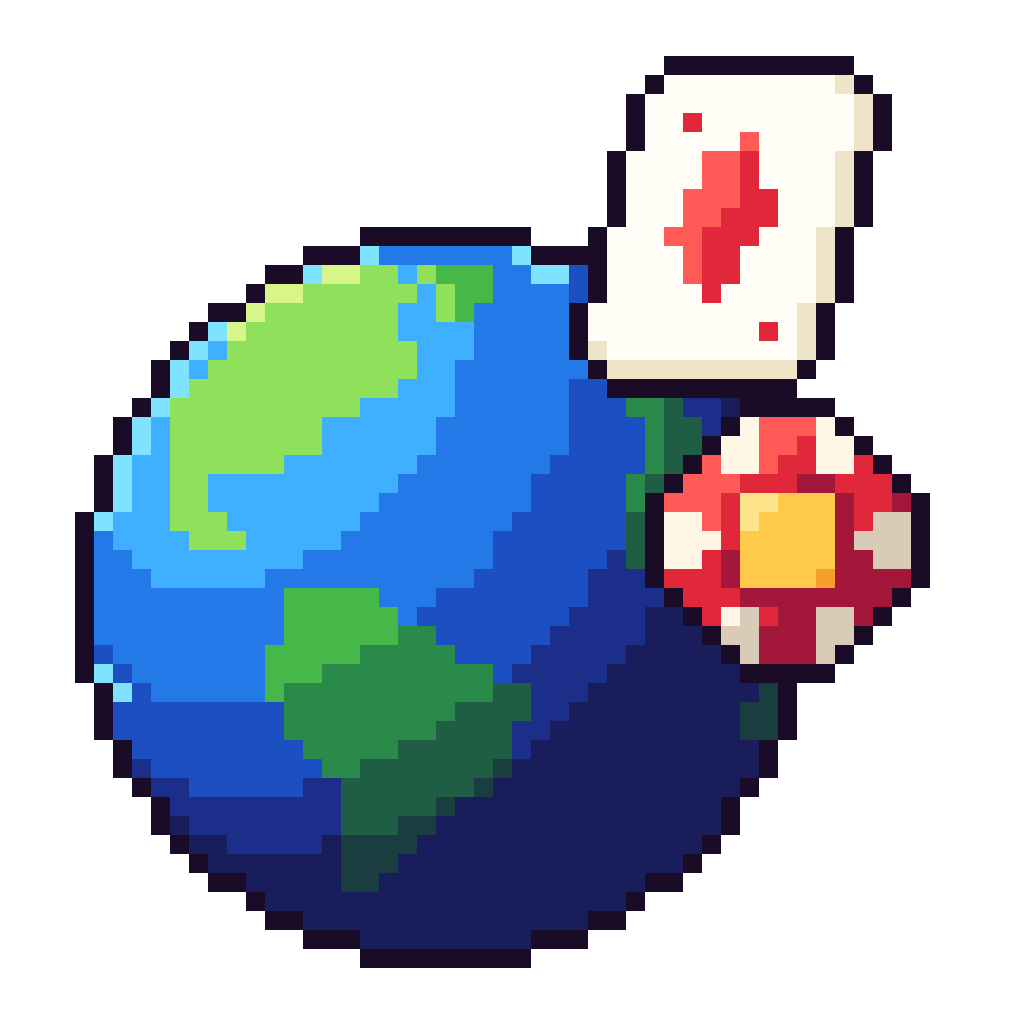
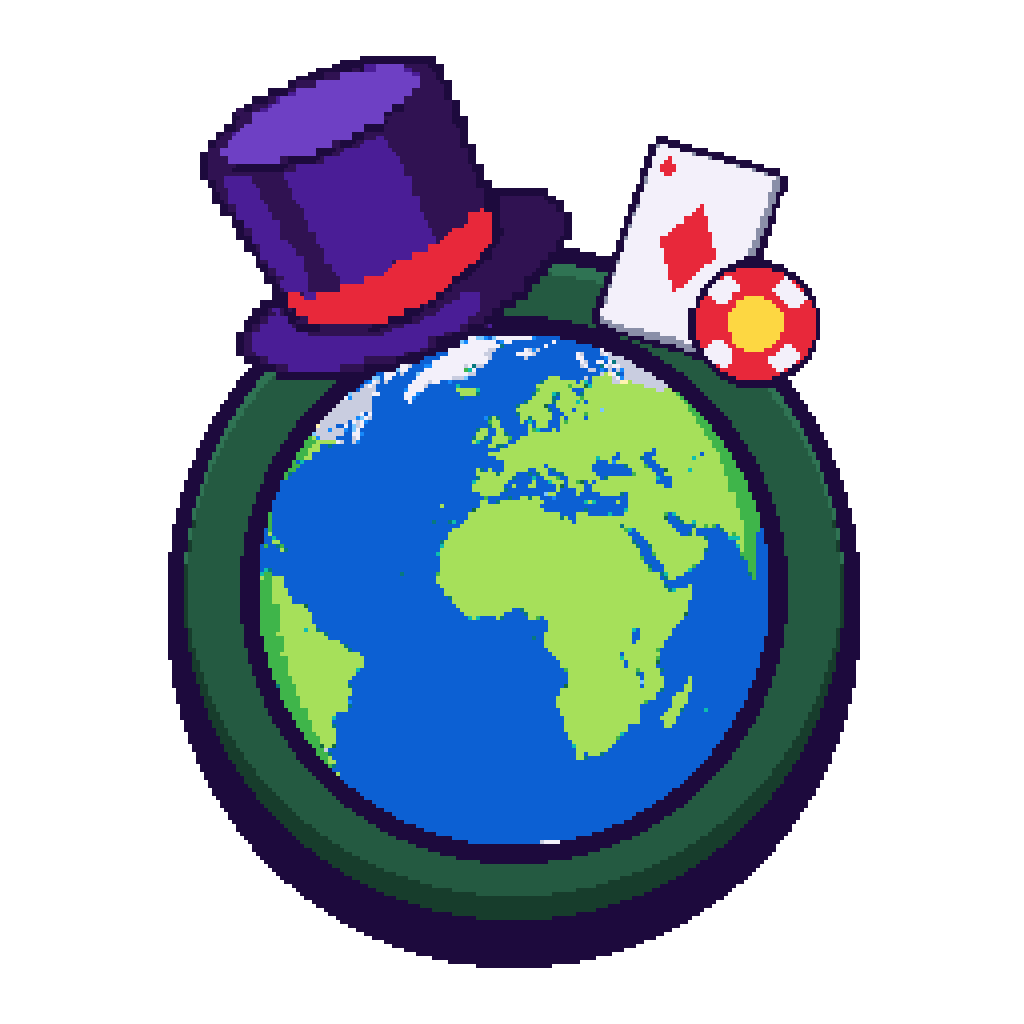
v0.3.132 · El escudo nuevo: la Tierra en su placa con la chistera y la carta
- Escudo de 256 px montado con copias exactas de las capas del logo (Tierra, hueco, carta y chistera) sobre una placa redonda con las reglas del marco del rotulo; 96, 48 y 32 px redibujados por Pixel Lab con su paleta exacta (siluetas simetricas). Sin 16 nativo: el sistema reduce el de 32.
- Favicon (.ico 32+48 y png 32), iconos web y movil (192, 512, maskable, apple-touch), escritorio (256/512/1024 y .ico 32-256), menu y cabecera, og.png (logo 1:1 sobre la noche morada) e iconos de Steam (comunidad 184 y cliente 32) en steam/arte.
- Fuera favicon-16 y 7 iconos que el juego ya no usaba (a_moon, diplomat, naturalist, scholar, president, roulette_r, u_fs).
- Nota del parche 0.3.132 en los 12 idiomas.

diff --git a/js/parche-data.js b/js/parche-data.js
@@ -34,6 +34,32 @@ window.AIQ = window.AIQ || {};
 
   A.PATCHES = [
     {
+      id: "0.3.132",
+      name: L("El escudo nuevo", "The new emblem", "Le nouvel emblème", "O novo emblema", "Das neue Emblem", "Il nuovo emblema", "", "全新徽标", "새 엠블럼", "新しいエンブレム", "Новая эмблема", "Nowy emblemat"),
+      date: "2026-10-16",
+      summary: L("El escudo de Geolite se pone a juego con el logo nuevo: la Tierra en su placa de fieltro verde, con la chistera del crupier y la carta.", "Geolite's emblem now matches the new logo: the Earth on its green felt plate, with the dealer's top hat and the card.", "L'emblème de Geolite s'accorde au nouveau logo : la Terre sur sa plaque de feutre vert, avec le haut-de-forme du croupier et la carte.", "O emblema do Geolite agora combina com o novo logo: a Terra na sua placa de feltro verde, com a cartola do crupiê e a carta.", "Das Emblem von Geolite passt jetzt zum neuen Logo: die Erde auf ihrer grünen Filzplakette, mit dem Zylinder des Croupiers und der Karte.", "L'emblema di Geolite ora si abbina al nuovo logo: la Terra sulla sua placca di feltro verde, con il cilindro del croupier e la carta.", "", "Geolite 的徽标换成了与新标志配套的样子：绿色台呢圆牌上的地球，配上荷官的礼帽和纸牌。", "Geolite의 엠블럼이 새 로고와 어울리게 바뀌었어요. 초록 펠트 원판 위의 지구에 딜러의 실크해트와 카드가 함께해요.", "Geoliteのエンブレムが新しいロゴとおそろいになりました。緑のフェルトのプレートに地球、ディーラーのシルクハットとカードを添えて。", "Эмблема Geolite теперь в пару новому логотипу: Земля на зелёной суконной плашке, с цилиндром крупье и картой.", "Emblemat Geolite pasuje teraz do nowego logo: Ziemia na zielonej suknowej plakietce, z cylindrem krupiera i kartą."),
+      chapters: [
+        { id: "escudo", kicker: L("Cambio", "Change", "Changement", "Mudança", "Änderung", "Modifica", "", "调整", "변경", "変更", "Изменение", "Zmiana"),
+          title: L("Menú, escritorio y navegador", "Menu, desktop and browser", "Menu, bureau et navigateur", "Menu, área de trabalho e navegador", "Menü, Desktop und Browser", "Menu, desktop e browser", "", "菜单、桌面与浏览器", "메뉴, 바탕화면, 브라우저", "メニュー、デスクトップ、ブラウザ", "Меню, рабочий стол и браузер", "Menu, pulpit i przeglądarka"),
+          entries: [
+            E(L("El escudo, a juego con el logo", "The emblem, matching the logo", "L'emblème, assorti au logo", "O emblema, combinando com o logo", "Das Emblem, passend zum Logo", "L'emblema, abbinato al logo", "", "与标志配套的徽标", "로고와 짝을 이룬 엠블럼", "ロゴとおそろいのエンブレム", "Эмблема в пару логотипу", "Emblemat do pary z logo"), "change", "0.3.132", [
+              L("El escudo, el dibujo pequeño que representa a Geolite, es nuevo: la Tierra del logo en su placa de fieltro verde, con la chistera del crupier y la carta con la ficha. Lo verás en el menú, en el icono del juego en el escritorio y en la barra de tareas, en la pestaña del navegador y en la imagen que sale al compartir el enlace. Los tamaños pequeños están dibujados aparte para que se vean nítidos.",
+                "The emblem, the small picture that stands for Geolite, is new: the Earth from the logo on its green felt plate, with the dealer's top hat and the card with the chip. You'll see it in the menu, in the game's icon on your desktop and taskbar, in the browser tab and in the picture shown when you share the link. The small sizes are drawn separately so they stay sharp.",
+                "L'emblème, le petit dessin qui représente Geolite, est nouveau : la Terre du logo sur sa plaque de feutre vert, avec le haut-de-forme du croupier et la carte avec le jeton. Tu le verras dans le menu, dans l'icône du jeu sur le bureau et dans la barre des tâches, dans l'onglet du navigateur et dans l'image affichée quand tu partages le lien. Les petites tailles sont dessinées à part pour rester nettes.",
+                "O emblema, o desenho pequeno que representa o Geolite, é novo: a Terra do logo na sua placa de feltro verde, com a cartola do crupiê e a carta com a ficha. Você vai vê-lo no menu, no ícone do jogo na área de trabalho e na barra de tarefas, na aba do navegador e na imagem que aparece ao compartilhar o link. Os tamanhos pequenos são desenhados à parte para ficarem nítidos.",
+                "Das Emblem, das kleine Bild, das für Geolite steht, ist neu: die Erde aus dem Logo auf ihrer grünen Filzplakette, mit dem Zylinder des Croupiers und der Karte mit dem Chip. Du siehst es im Menü, im Spielsymbol auf dem Desktop und in der Taskleiste, im Browser-Tab und im Bild, das beim Teilen des Links erscheint. Die kleinen Größen sind eigens gezeichnet, damit sie scharf bleiben.",
+                "L'emblema, il piccolo disegno che rappresenta Geolite, è nuovo: la Terra del logo sulla sua placca di feltro verde, con il cilindro del croupier e la carta con la fiche. Lo vedrai nel menu, nell'icona del gioco sul desktop e nella barra delle applicazioni, nella scheda del browser e nell'immagine che compare quando condividi il link. Le misure piccole sono disegnate a parte per restare nitide.",
+                "",
+                "徽标，也就是代表 Geolite 的小图，焕然一新：标志里的地球放在绿色台呢圆牌上，配上荷官的礼帽和带筹码的纸牌。你会在菜单、桌面和任务栏上的游戏图标、浏览器标签页，以及分享链接时显示的图片里看到它。小尺寸都是单独绘制的，保证清晰。",
+                "Geolite를 나타내는 작은 그림, 엠블럼이 새로워졌어요. 로고의 지구가 초록 펠트 원판 위에 있고, 딜러의 실크해트와 칩을 곁들인 카드가 함께해요. 메뉴, 바탕화면과 작업 표시줄의 게임 아이콘, 브라우저 탭, 링크를 공유할 때 나오는 이미지에서 볼 수 있어요. 작은 크기는 선명하게 보이도록 따로 그렸어요.",
+                "Geoliteを表す小さな絵、エンブレムが新しくなりました。ロゴの地球を緑のフェルトのプレートに載せ、ディーラーのシルクハットとチップ付きのカードを添えています。メニュー、デスクトップとタスクバーのゲームアイコン、ブラウザのタブ、リンクを共有したときの画像で見られます。小さいサイズはくっきり見えるよう、別々に描いています。",
+                "Эмблема — маленькая картинка, которая обозначает Geolite, — новая: Земля из логотипа на зелёной суконной плашке, с цилиндром крупье и картой с фишкой. Ты увидишь её в меню, в значке игры на рабочем столе и панели задач, на вкладке браузера и на картинке, которая появляется, когда делишься ссылкой. Маленькие размеры нарисованы отдельно, чтобы оставаться чёткими.",
+                "Emblemat, czyli mały obrazek, który oznacza Geolite, jest nowy: Ziemia z logo na zielonej suknowej plakietce, z cylindrem krupiera i kartą z żetonem. Zobaczysz go w menu, w ikonie gry na pulpicie i pasku zadań, na karcie przeglądarki i na obrazku, który pojawia się, gdy udostępniasz link. Małe rozmiary są narysowane osobno, żeby były ostre."),
+            ]),
+          ] },
+      ],
+    },
+    {
       id: "0.3.131",
       name: L("El Club de la casa", "The House Club", "Le Club de la maison", "O Clube da casa", "Der Club des Hauses", "Il Club della casa", "", "赌场俱乐部", "하우스 클럽", "ハウスクラブ", "Клуб заведения", "Klub kasyna"),
       date: "2026-10-16",

diff --git a/sw.js b/sw.js
@@ -1,10 +1,10 @@
 /* Geolite - service worker: funciona sin conexion (cache de la app) y se actualiza solo. */
-const CACHE = "geolite-v0.3.131";
+const CACHE = "geolite-v0.3.132";
 const CORE = [
   "./", "index.html", "manifest.webmanifest", "css/style.css", "css/boot.css", "css/skins.css", "css/codex.css", "css/hub.css", "css/premium.css", "css/challenges.css", "css/uikit.css", "css/tour.css", "css/marcador.css", "js/marcador.js", "css/nombre.css", "js/nombre.js", "css/podio.css", "css/otrodia.css", "css/portada.css", "css/parche.css", "js/parche-data.js", "js/parche.js", "assets/icons/m_patch.webp", "js/podio.js", "js/otrodia.js", "css/salir.css", "css/final.css", "js/salir.js", "js/final.js", "css/campamento.css", "css/casino-ctl.css", "css/casino-dados.css", "css/casino-plinko.css", "css/casino-globo.css", "css/casino-rasca.css", "css/peek.css", "css/mando.css", "css/ajustes.css", "css/deck.css", "css/gala.css", "css/escena.css", "css/partida.css", "css/legible.css", "js/glifos-data.js", "js/mando-textos.js", "js/mando.js", "js/controles.js", "js/teclado.js", "js/creditos.js","js/perf.js","js/vivo.js","js/uikit.js", "js/tips.js", "js/peek.js", "js/tour.js", "js/jukebox.js", "js/profile.js", "js/club.js", "css/club.css", "assets/icons/ficha_oro.webp", "js/rank.js", "js/relics.js", "js/challenges.js", "js/chfx.js", "js/humo.js", "js/crupier-data.js", "js/crupier.js", "js/dealer.js", "js/pointer.js", "js/casino-ctl.js", "js/adventure.js", "js/casino-dados-textos.js", "js/casino-dados.js", "js/casino-plinko-tablas.js", "js/casino-plinko-textos.js", "js/casino-plinko.js", "js/casino-globo-textos.js", "js/casino-globo.js", "js/casino-rasca-arte.js", "js/casino-rasca-textos.js", "js/casino-rasca.js", "js/hub.js", "js/ficha.js", "js/icons.js", "js/i18n2.js", "js/i18n3.js", "js/i18n4.js", "js/i18n5.js", "js/i18n6.js", "js/teclas.js", "js/art.js", "data/codex.js", "data/places.js", "data/pistas.js", "data/paises-lugares.js", "data/aguas.js", "data/dificultad.js", "data/niveles.js", "data/carretes.js", "js/codex.js", "js/wiki.js",
   "js/vendor/topojson-client.min.js", "js/vendor/earcut.min.js", "data/world.js", "data/classic.js", "data/locations.js", "data/history.js", "data/classic-tr.js", "data/campaigns.js",
   "js/geo.js", "js/aguas.js", "js/i18n.js", "js/logo.js", "js/support.js", "js/audio.js", "js/map2d.js", "js/map.js", "js/skins.js", "js/gala.js", "js/casa.js", "js/escena.js", "assets/esc/lamp_billar.png", "assets/esc/lamp_globo.png", "assets/esc/lamp_deco.png", "assets/esc/lamp_farol.png", "assets/esc/lamp_verbena.png", "assets/esc/lamp_velas.png", "assets/esc/lamp_quinque.png", "assets/esc/lamp_flexo.png", "assets/esc/lamp_arana.png", "assets/esc/lamp_foco.png", "js/mesas.js", "assets/sfx/sala.mp3", "js/game.js", "data/flags.js", "js/steam.js",
-  "js/jefes.js", "assets/favicon-32.png", "assets/favicon-16.png", "assets/apple-touch-icon.png", "assets/icon-192.png", "assets/icon-512.png", "assets/logo.png", "js/geologo.js", "assets/logo/rotulo.png", "assets/logo/tierra.png", "assets/logo/carta.png", "assets/logo/chistera.png", "assets/icons/logo_mark.png", "assets/icons/logo_mark_s.png", "favicon.ico",
+  "js/jefes.js", "assets/favicon-32.png", "assets/apple-touch-icon.png", "assets/icon-192.png", "assets/icon-512.png", "assets/logo.png", "js/geologo.js", "assets/logo/rotulo.png", "assets/logo/tierra.png", "assets/logo/carta.png", "assets/logo/chistera.png", "assets/icons/logo_mark.png", "assets/icons/logo_mark_s.png", "favicon.ico",
 ];
 self.addEventListener("install", e => { e.waitUntil(caches.open(CACHE).then(c => c.addAll(CORE)).then(() => self.skipWaiting())); });
 self.addEventListener("activate", e => { e.waitUntil(caches.keys().then(ks => Promise.all(ks.filter(k => k !== CACHE).map(k => caches.delete(k)))).then(() => self.clients.claim())); });

diff --git a/css/uikit.css b/css/uikit.css
@@ -209,7 +209,7 @@ html[data-skin="casino"] #askSub { font-family: inherit; }
 .np-t { flex-wrap: wrap; row-gap: 2px; min-height: 30px; align-content: center; }
 .np-t b { white-space: normal; overflow: visible; text-overflow: clip; text-align: center; line-height: 1.15; flex: 1 1 auto; min-width: 0; overflow-wrap: anywhere; }
 .np-set .np-t b { font-size: 15.5px; letter-spacing: .03em; }
-/* escudo = la Tierra con la carta y la ficha (48 px nativos): tamanos que son multiplos enteros */
+/* escudo = la Tierra en su placa con la chistera y la carta: menu 96 px y cabecera 32 px nativos, a 1:1 (assets/icons/logo_mark*.png) */
 .brand-rose { width: 32px; height: 32px; } .menu-rose { width: 96px; height: 96px; }
 
 /* pixel art nitido: los recursos grandes (escenas, cartas, iconos grandes, crupier) se amplian sin suavizar; los iconos pequenos se reducen desde un original nitido */

diff --git a/index.html b/index.html
@@ -7,7 +7,6 @@
 <title>Geolite</title>
 <link rel="icon" href="favicon.ico" sizes="any">
 <link rel="icon" type="image/png" sizes="32x32" href="assets/favicon-32.png">
-<link rel="icon" type="image/png" sizes="16x16" href="assets/favicon-16.png">
 <meta name="description" content="Geolite: ¿sabes dónde queda? Haz clic lo más cerca posible del lugar que te piden. Roguelike de geografía con estética casino pixel art.">
 <meta property="og:type" content="website"><meta property="og:site_name" content="Geolite"><meta property="og:title" content="Geolite · ¿Sabes dónde queda?">
 <meta property="og:description" content="Roguelike de geografía: haz clic lo más cerca posible del lugar que te piden. Casino pixel art, 12 idiomas.">

diff --git a/js/support.js b/js/support.js
@@ -1,7 +1,7 @@
 /* Geolite - textos ES/EN, calculo de IQ e insignia. */
 window.AIQ = window.AIQ || {};
 (function (A) {
-  A.VERSION = "0.3.131";
+  A.VERSION = "0.3.132";
   A.lang = "es";
   /* fotos de la Enciclopedia: en la web salen de GitHub Pages (pesan ~1 GB y Vercel no las admite), repartidas en dos webs para no pasar
      del limite de 1 GB de cada una; en local y en Electron (127.0.0.1) salen de la carpeta del juego. Las publica tools/publish-media.mjs.

diff --git a/README.md b/README.md
@@ -91,7 +91,7 @@ Todo el arte de Geolite es pixel art de Cousins Studios. La base está ideada po
 - **Don Crupier:** retrato maestro pulido a mano; capas, caras, manos, expresiones y gestos animados por capas.
 - **Iconos:** insignias de logros (48 px nativos sobre su ficha), iconos del casino, reliquias, herramientas, jefes, retos, barajas, tipos de tarjeta e interfaz.
 - **Escenas y tarjetas:** jefes, actos, Campamento, cofre, victoria y derrota, las tarjetas de modo y las mesas de cada juego del casino.
-- **Marca:** logo (rótulo de bombillas sobre fieltro verde; la O es la Tierra, que gira bajo la chistera del crupier junto a la carta y la ficha; por capas, a la resolución real de la pantalla) y escudo (la Tierra con la carta y la ficha, en PNG a escala entera).
+- **Marca:** logo (rótulo de bombillas sobre fieltro verde; la O es la Tierra, que gira bajo la chistera del crupier junto a la carta y la ficha; por capas, a la resolución real de la pantalla) y escudo (la Tierra del logo en su placa de fieltro verde con la chistera y la carta: 256 px y versiones de 96, 48 y 32 px dibujadas aparte, a escala entera).
 
 ### Banda sonora
 

diff --git a/steam/README.md b/steam/README.md
@@ -9,6 +9,8 @@
 6. Logros: `node tools/steam-achievements.mjs` y `python tools/steam_icons.py` generan `docs/steam/achievements.csv` y los 200 iconos
    (`docs/steam/icons/<id>.jpg` y `<id>_locked.jpg`, 64x64). Se cargan en Stats & Achievements y hay que pulsar **Publish**.
 7. Launch options (SteamPipe -> Installation -> General): ejecutable `Geolite.exe` (demo: `GeoliteDemo.exe`), Windows 64.
+8. Iconos (Store Admin -> Graphical Assets / Client Images): `steam/arte/icono_comunidad_184.jpg` (Community Icon) e
+   `steam/arte/icono_cliente.ico` (Client Icon, 32x32). El ejecutable ya lleva `assets/desktop/icon.ico` (32, 48, 64, 96 y 256).
 
 ## 1. Cada version
 Atajo: `node tools/steam-upload.mjs` (o `--demo`) empaqueta, rellena el .vdf con `steam/ids.local.json` (lo crea la primera vez, fuera de git)
